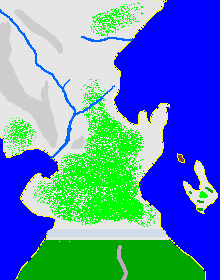
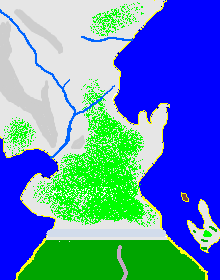
list of lights, light object

diff --git a/main.js b/main.js
@@ -3,6 +3,7 @@ var people=[];
 var fires=[];
 var ships=[];
 var ports=[];
+var lights=[];
 var settlements=[];
 var nightsWatch=new theWatch();
 settlements.push(new settlement());
@@ -21,6 +22,10 @@ settlements.push(eastwatch);
 settlements.push(shadowtower);
 
 
+lights.push(new light(1865,3760,9));
+lights.push(new light(1976,3777,9));
+
+
 ports.push(Eastwatch);
 ports.push(Skagos);
 var miles=new dude();
@@ -30,10 +35,18 @@ miles.gun=miles.guns[0];
 people.push(miles);
 nightsWatch.men.push(miles);
 
+
+var booop=new light(0,0,32,miles);//.arms[0].joint2));
+booop.offSetX=6;
+booop.offSetY=23;
+
+lights.push(booop);
+
+
 var betha=new ship();
 ships.push(betha);
 
-var mel=new flame();
+var mel=new flame(lights);
 mel.x=124*16;//miles.x;
 mel.y=221*16;//miles.y;
 mel.alive=true;
@@ -45,13 +58,16 @@ for(var i=0;i<24;i++)
 {
 	var giles=new dude();
 	giles.x=Math.random()*116*16;
-	giles.y=10;
+	giles.y=Math.random()*128+10;
 	//giles.doGesture(GestureTypes.Dance,100000);
 	giles.equip(legArmorList[Math.floor(Math.random()*legArmorList.length)]);
 	giles.equip(chestArmorList[Math.floor(Math.random()*chestArmorList.length)]);
 	giles.equip(helmetList[Math.floor(Math.random()*helmetList.length)]);
 	people.push(giles);
-	nightsWatch.men.push(miles);
+	var boop=new light(0,0,32,giles);
+	boop.offSetX=6;
+	boop.offSetY=23;
+	lights.push(boop)
 }
 
 function allPoint(guy)
@@ -874,16 +890,14 @@ function mainDraw() {
 	canvas.globalAlpha=LightLevels[thyme.hours];
 	canvas.fillStyle="black";
 	canvas.fillRect(0,0,CANVAS_WIDTH, CANVAS_HEIGHT);
-	ligthenGradient(canvas,camera,fires[0], 24)
-	var torcha=[];
-	var torchb=[];
-	torcha.x=115*16+8;
-	torcha.y=234*16;
-	torchb.x=122*16+7;
-	torchb.y=234*16+15;
-	ligthenGradient(canvas,camera,torcha, 9)
-	ligthenGradient(canvas,camera,torchb, 10)
-	for(var i=0;i<people.length;i++)
+	//ligthenGradient(canvas,camera,fires[0], 24)
+
+	for(var i=0;i<lights.length;i++)
+	{
+		//lights[i].draw(canvas,camera);
+		ligthenGradient(canvas,camera,lights[i], lights[i].radius)
+	}
+	/*for(var i=0;i<people.length;i++)
 	{
 		if(people[i].torch)
 		{
@@ -902,7 +916,7 @@ function mainDraw() {
 				ligthenGradient(canvas,camera,tehg, 40);
 			}
 		}
-	}
+	}*/
 	mapDirty=true;
 	canvas.globalAlpha=1;//0.4;
 	curMap.drawRadar(camera,665,475);
@@ -1111,6 +1125,11 @@ function mainUpdate()
 	for(var i=0;i<ships.length;i++)
 	{
 		ships[i].update(curMap);
+	}
+	
+	for(var i=0;i<lights.length;i++)
+	{
+		lights[i].update();
 	}
 	
 	var speeMulti=1;

diff --git a/lighting.js b/lighting.js
@@ -1,0 +1,70 @@
+function ligthenGradient(ctx,cam,source, radius) {
+	var x=source.x-cam.tileX*tileSize+source.offSetX;//17; //campfire
+	var y=source.y-cam.tileY*tileSize+source.offSetY;//23; 
+    ctx.save();
+    ctx.globalCompositeOperation = 'lighter';
+    var rnd = 0.05 * Math.sin(1.1 * Date.now() / 1000);
+    radius = radius * (1 + rnd);
+    var radialGradient = ctx.createRadialGradient(x, y, 0, x, y, radius);
+    radialGradient.addColorStop(0.0, '#BB9');
+    radialGradient.addColorStop(0.1 + rnd, '#AA8');
+    radialGradient.addColorStop(0.4 + rnd, '#330');
+    radialGradient.addColorStop(0.70, '#110');
+    radialGradient.addColorStop(1, '#000');
+    ctx.fillStyle = radialGradient;
+    ctx.beginPath();
+    ctx.arc(x, y, radius, 0, 2 * 3.14);
+    ctx.fill();
+    ctx.restore();
+}
+
+function light(x,y,rad,obj)
+{
+	this.x=x || 0;
+	this.y=y || 0;
+	//this.tileX=0;
+	//this.tileY=0;
+	this.offSetX=0;
+	this.offSetY=0;
+	this.color="white";
+	this.on=true;
+	this.nightTimer=false; //turn on when dark.
+	this.radius=rad||9;
+	this.object=null;
+	if(obj)
+	{	
+		this.object=obj;
+		this.offSetX=x;
+		this.offSetY=y;
+	}
+	
+}
+
+light.prototype.update=function()
+{
+	if(this.object)
+	{
+		this.x=this.object.x;//+this.offSetX
+		this.y=this.object.y;//+this.offSetY;
+	}
+}
+
+light.prototype.draw=function(ctx,cam) {
+	var x=this.x-cam.tileX*tileSize+17; //campfire
+	var y=this.y.y-cam.tileY*tileSize+23; 
+    ctx.save();
+    ctx.globalCompositeOperation = 'lighter';
+    var rnd = 0.05 * Math.sin(1.1 * Date.now() / 1000);
+    radius = this.radius * (1 + rnd);
+    var radialGradient = ctx.createRadialGradient(x, y, 0, x, y, radius);
+    radialGradient.addColorStop(0.0, '#BB9');
+    radialGradient.addColorStop(0.1 + rnd, '#AA8');
+    radialGradient.addColorStop(0.4 + rnd, '#330');
+    radialGradient.addColorStop(0.70, '#110');
+    radialGradient.addColorStop(1, '#000');
+    ctx.fillStyle = radialGradient;
+    ctx.beginPath();
+    ctx.arc(x, y, radius, 0, 2 * 3.14);
+    ctx.fill();
+    ctx.restore();
+}

diff --git a/dude.js b/dude.js
@@ -3,12 +3,28 @@ flameTypes.Campfire=1;
 flameTypes.loose=0;
 flameTypes.Torch=3;
 flameTypes.wallTorch=4;
+flameTypes.Wildfire=5;
 
 var torchSprite=Sprite("torch");
 
-function flame()
+function flame(lightlist,type)
 {
 	this.type=1;
+	this.luminosity=12;
+	var offx=0;
+	var offy=0;
+	if(this.type==flameTypes.Campfire)
+	{
+		this.luminosity=70;
+		offx=17;
+		offy=23;
+	}else if((this.type==flameTypes.Torch) || (this.type==flameTypes.Torch))
+	{
+		this.luminosity=10;
+	}else if(this.type==flameTypes.Wildfire)
+	{
+		this.luminosity=440;
+	}
 	this.sprites=[];
 	this.supportSprite=Sprite("campfire");
 	this.x=0;
@@ -23,6 +39,9 @@ function flame()
 	this.sprites.push(Sprite("fire1"));
 	this.sprites.push(Sprite("fire2"));
 	this.sprites.push(Sprite("fire3"));
+	this.flare=new light(offx,offy,this.luminosity,this);
+	lightlist.push(this.flare);
+	
 }
 
 flame.prototype.update=function()

diff --git a/castleblack.js b/castleblack.js
@@ -16,25 +16,7 @@
     ctx.restore();
 }*/
 
-function ligthenGradient(ctx,cam,source, radius) {
-	var x=source.x-cam.tileX*tileSize+17; //campfire
-	var y=source.y-cam.tileY*tileSize+23; 
-    ctx.save();
-    ctx.globalCompositeOperation = 'lighter';
-    var rnd = 0.05 * Math.sin(1.1 * Date.now() / 1000);
-    radius = radius * (1 + rnd);
-    var radialGradient = ctx.createRadialGradient(x, y, 0, x, y, radius);
-    radialGradient.addColorStop(0.0, '#BB9');
-    radialGradient.addColorStop(0.1 + rnd, '#AA8');
-    radialGradient.addColorStop(0.4 + rnd, '#330');
-    radialGradient.addColorStop(0.70, '#110');
-    radialGradient.addColorStop(1, '#000');
-    ctx.fillStyle = radialGradient;
-    ctx.beginPath();
-    ctx.arc(x, y, radius, 0, 2 * 3.14);
-    ctx.fill();
-    ctx.restore();
-}
+
 
 function settlement()
 {

diff --git a/index.html b/index.html
@@ -22,6 +22,7 @@
 
 	<script type='text/javascript' src="javascripts/graph.js"></script>
     <script type='text/javascript' src="javascripts/astar.js"></script>
+	<script type='text/javascript' src="lighting.js"></script>
 	<script type='text/javascript' src="particle.js"></script>
 	<script type='text/javascript' src="definitions.js"></script>
 	<script type='text/javascript' src="mouse.js"></script>
